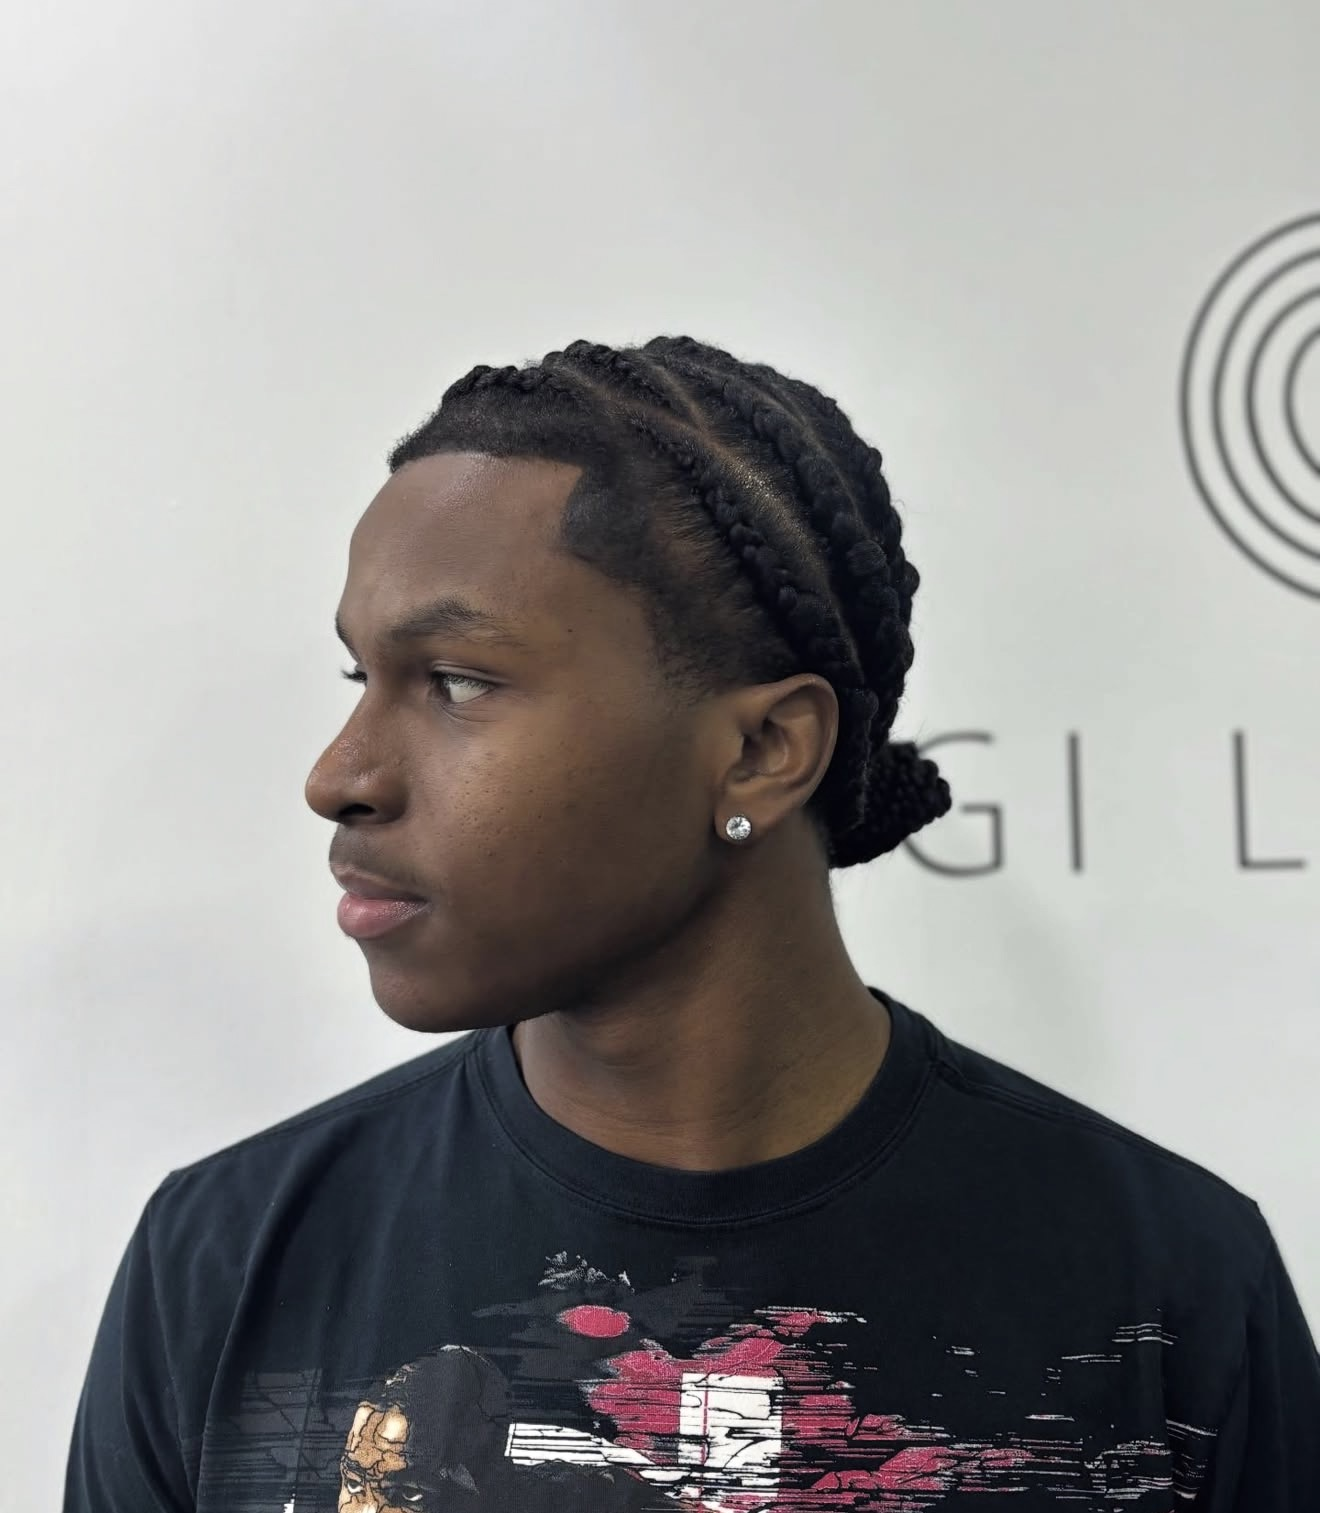
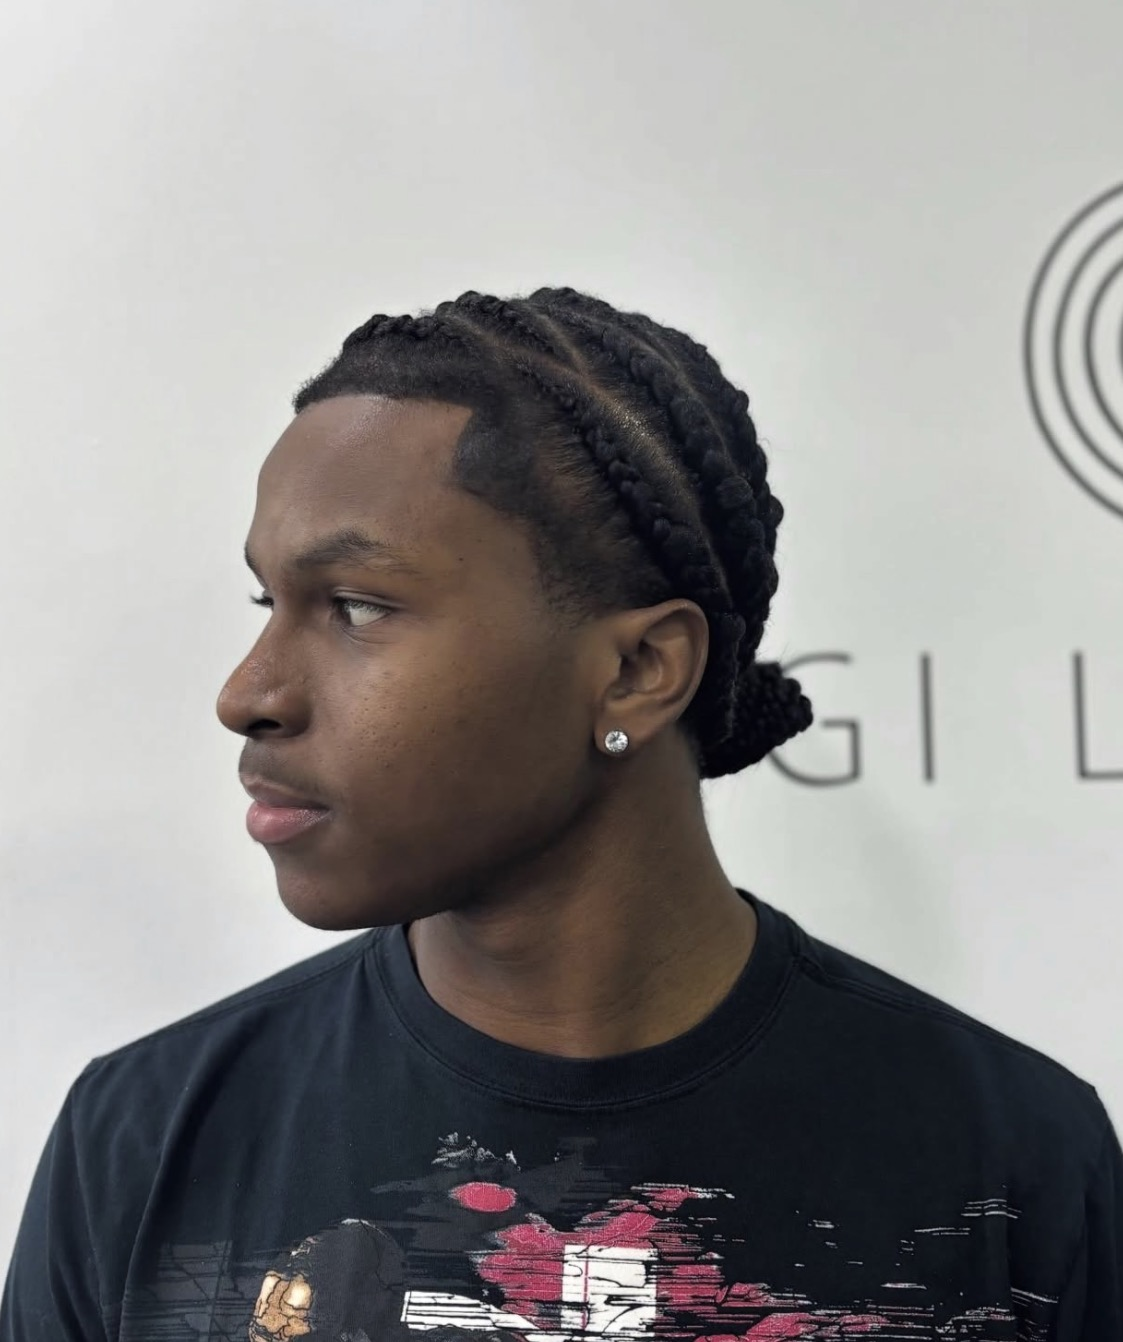
feat: cornrows-homme als foto Afro coiffure categoriekaart homepage
Cornrows heren foto (GiGi L achtergrond) ingesteld als categoriekaart
voor 'Afro coiffure & vlechten' in FR/NL/EN. Ook toegevoegd aan galerij.

diff --git a/src/lib/i18n.tsx b/src/lib/i18n.tsx
@@ -77,7 +77,7 @@ export const translations = {
       title: "Coiffeur à Tongres : tresses, brushing, coloration, microshading & ongles",
       learnMore: "En savoir plus",
       cats: [
-        { key: "coiffure", t: "Coiffure afro & tressage", d: "Box braids, cornrows, tissage, locks — spécialiste cheveux afro, bouclés et crépus à Tongres.", img: "/gallery/burgundy-feedin-braids.jpeg" },
+        { key: "coiffure", t: "Coiffure afro & tressage", d: "Box braids, cornrows, tissage, locks — spécialiste cheveux afro, bouclés et crépus à Tongres.", img: "/gallery/cornrows-homme.jpeg" },
         { key: "kapsalon", t: "Salon de coiffure", d: "Brushing, coloration, balayage, coupe femme & homme — tout ce que fait un bon coiffeur à Tongres.", img: "/gallery/tissage-lisse-brun.jpeg" },
         { key: "microshading", t: "Microshading sourcils", d: "Sourcils redessinés à Tongres — effet poudré naturel et durable, rendez-vous le jour même possible.", img: "/gallery/cat-microshading.png" },
         { key: "nails", t: "Nails", d: "Pose complète, gel, vernis semi-permanent et pédicure.", img: "/gallery/cat-nails.jpeg" },
@@ -259,7 +259,7 @@ export const translations = {
       title: "Kapster in Tongeren: vlechten, brushing, haren kleuren, weaves & microshading",
       learnMore: "Meer weten",
       cats: [
-        { key: "coiffure", t: "Afro coiffure & vlechten", d: "Box braids, cornrows, weaves, locks — specialist afro-, kroes- en krullend haar in Tongeren.", img: "/gallery/burgundy-feedin-braids.jpeg" },
+        { key: "coiffure", t: "Afro coiffure & vlechten", d: "Box braids, cornrows, weaves, locks — specialist afro-, kroes- en krullend haar in Tongeren.", img: "/gallery/cornrows-homme.jpeg" },
         { key: "kapsalon", t: "Kapsalon", d: "Brushing, haren kleuren, balayage, knipbeurt dames & heren — alles wat een goede kapster in Tongeren doet.", img: "/gallery/tissage-lisse-brun.jpeg" },
         { key: "microshading", t: "Microshading wenkbrauwen", d: "Wenkbrauwen opnieuw getekend in Tongeren — natuurlijk poedereffect, ook op dezelfde dag mogelijk.", img: "/gallery/cat-microshading.png" },
         { key: "nails", t: "Nails", d: "Volledige set, gel, semi-permanente lak en pedicure.", img: "/gallery/cat-nails.jpeg" },
@@ -441,7 +441,7 @@ export const translations = {
       title: "Hair salon Tongeren: braids, blow-dry, hair colouring, weaves & microshading",
       learnMore: "Learn more",
       cats: [
-        { key: "coiffure", t: "Afro hair & braids", d: "Box braids, cornrows, weaves, locs — specialist in afro, coily and curly hair in Tongeren.", img: "/gallery/burgundy-feedin-braids.jpeg" },
+        { key: "coiffure", t: "Afro hair & braids", d: "Box braids, cornrows, weaves, locs — specialist in afro, coily and curly hair in Tongeren.", img: "/gallery/cornrows-homme.jpeg" },
         { key: "kapsalon", t: "Hair salon", d: "Blow-dry, hair colouring, balayage, women's & men's cuts — everything a great hairdresser in Tongeren does.", img: "/gallery/tissage-lisse-brun.jpeg" },
         { key: "microshading", t: "Microshading brows", d: "Brows redefined in Tongeren — natural powder effect, same-day appointments available.", img: "/gallery/cat-microshading.png" },
         { key: "nails", t: "Nails", d: "Full set, gel, semi-permanent polish and pedicure.", img: "/gallery/cat-nails.jpeg" },
